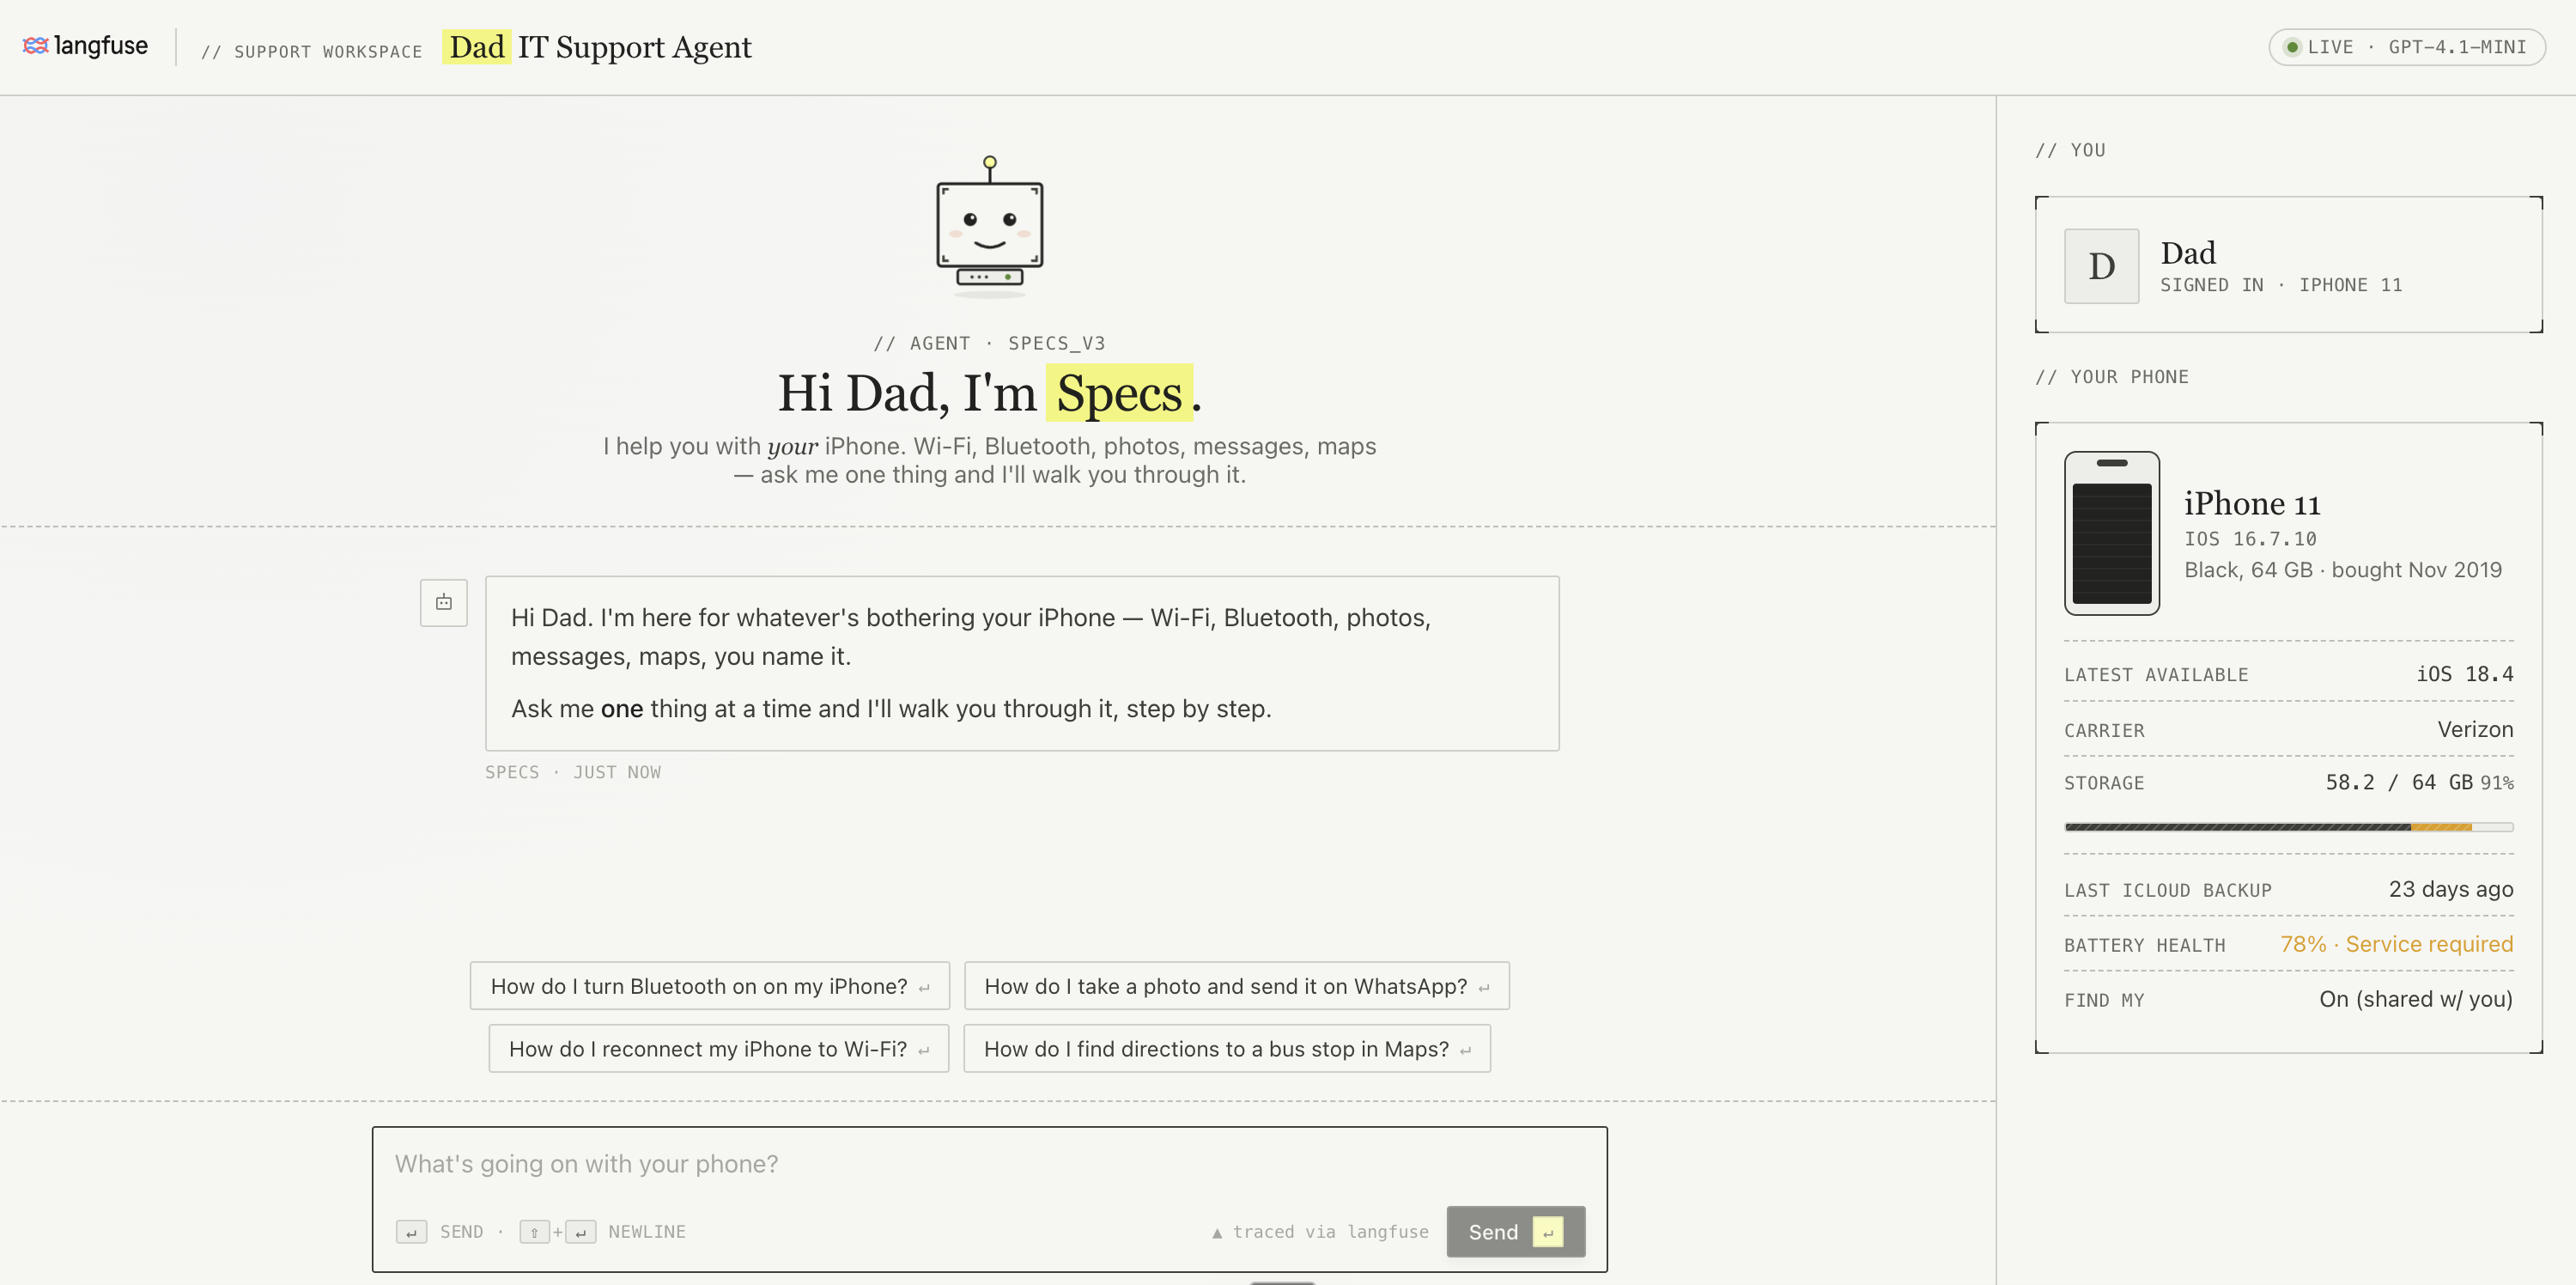
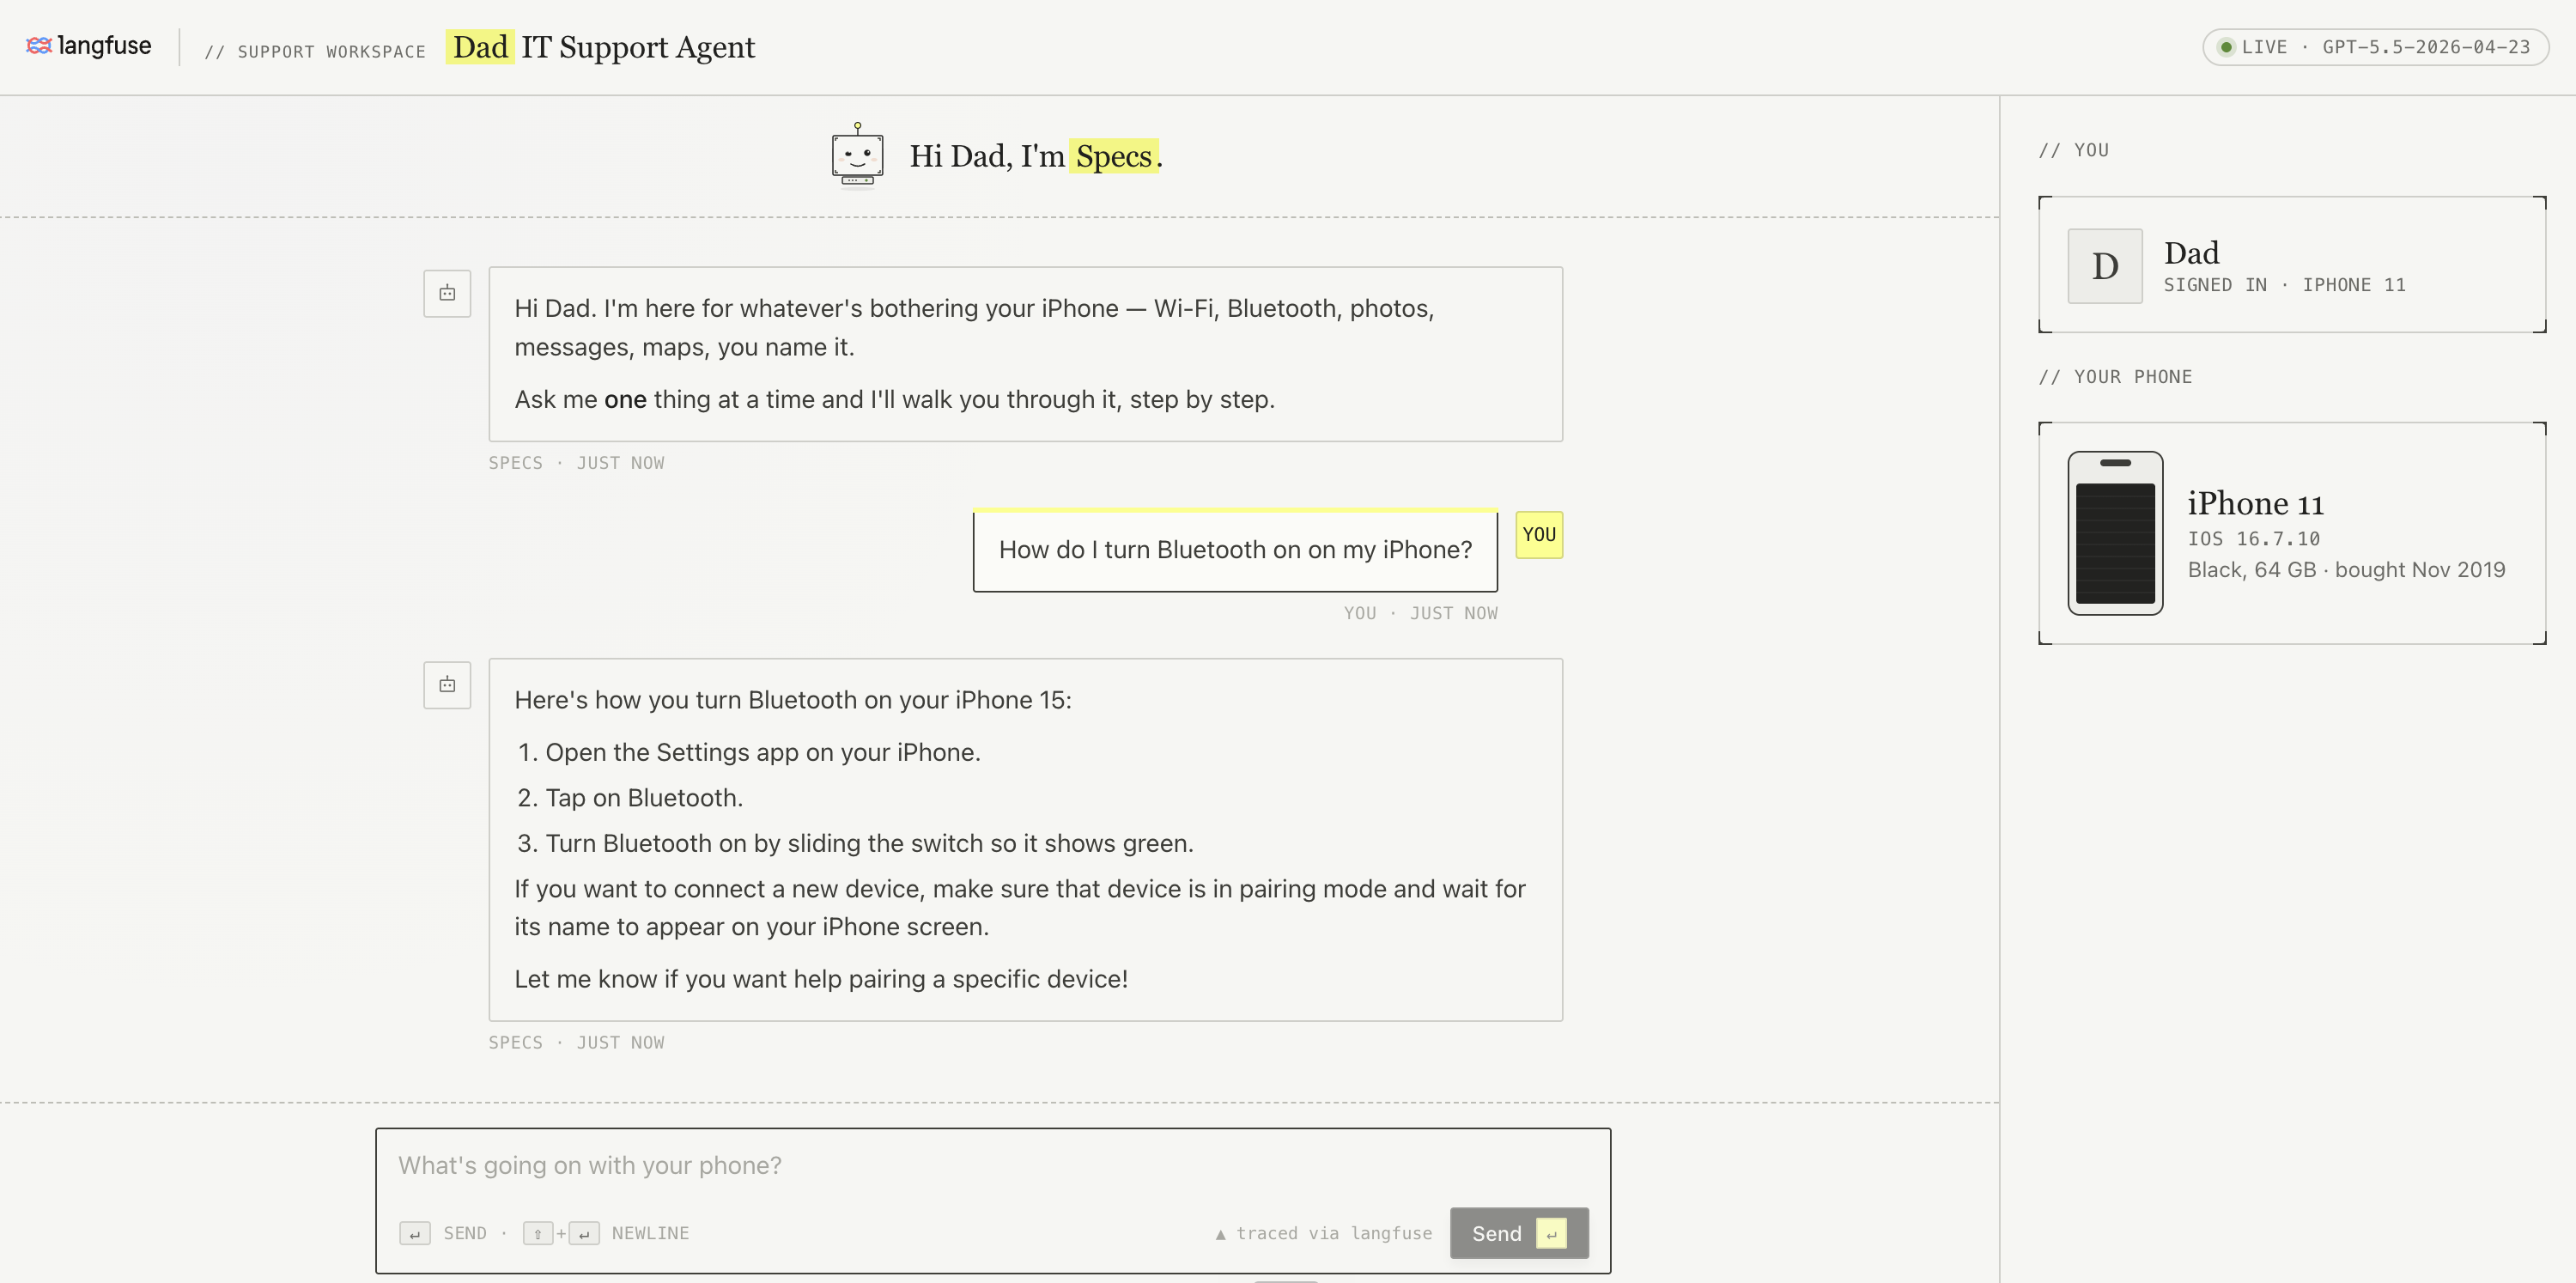
Shorten "Langfuse Claude Code skill" to just "Langfuse skill" everywhere
Aligns the wording with how the skill is referenced internally and
keeps the workshop docs from re-explaining the surface that the skill
runs on. The /langfuse invocation stays the same.

Also trims the chat-header (mascot 84px → 40px, drops the eyebrow +
long subtitle, single-row compact layout) and removes the dynamic
phone-panel rows (storage bar, latest available, carrier, last
backup, battery, find my) so the side panel only shows the static
identity card.

diff --git a/src/client/App.tsx b/src/client/App.tsx
@@ -18,13 +18,7 @@ const PHONE = {
   model: "iPhone 11",
   finish: "Black, 64 GB",
   os: "iOS 16.7.10",
-  latestAvail: "iOS 18.4",
-  carrier: "Verizon",
-  purchased: "Nov 2019",
-  lastBackup: "23 days ago",
-  battery: "78% · Service required",
-  storage: "58.2 / 64 GB",
-  storagePct: 91
+  purchased: "Nov 2019"
 };
 
 function createSessionId() {
@@ -135,45 +129,6 @@ function PhonePanel() {
             <div className="age">
               {PHONE.finish} · bought {PHONE.purchased}
             </div>
-          </div>
-        </div>
-
-        <div className="spec-list">
-          <div className="spec">
-            <span className="k">Latest available</span>
-            <span className="v mono">{PHONE.latestAvail}</span>
-          </div>
-          <div className="spec">
-            <span className="k">Carrier</span>
-            <span className="v">{PHONE.carrier}</span>
-          </div>
-          <div className="spec">
-            <span className="k">Storage</span>
-            <span className="v mono">
-              {PHONE.storage}
-              <span className="pct">{PHONE.storagePct}%</span>
-            </span>
-          </div>
-        </div>
-
-        <div className="storage-bar">
-          <div className="fill"></div>
-        </div>
-
-        <div className="spec-list" style={{ marginTop: 12 }}>
-          <div className="spec">
-            <span className="k">Last iCloud backup</span>
-            <span className="v">{PHONE.lastBackup}</span>
-          </div>
-          <div className="spec">
-            <span className="k">Battery health</span>
-            <span className="v" style={{ color: "var(--callout-warning)" }}>
-              {PHONE.battery}
-            </span>
-          </div>
-          <div className="spec">
-            <span className="k">Find My</span>
-            <span className="v">On (shared w/ you)</span>
           </div>
         </div>
       </div>
@@ -296,18 +251,14 @@ export function App() {
       <TopBar />
       <div className="main">
         <section className="chat">
-          <header className="chat-header">
+          <header className="chat-header compact">
             <div className="mascot-wrap">
-              <Mascot size={84} thinking={isSending} />
+              <Mascot size={40} thinking={isSending} />
             </div>
             <div className="who">
-              <div className="eyebrow">// agent · specs_v3</div>
               <h2>
                 Hi Dad, I'm <span className="mark">Specs</span>.
               </h2>
-              <div className="sub">
-                I help you with <em>your</em> iPhone. Wi-Fi, Bluetooth, photos, messages, maps — ask me one thing and I'll walk you through it.
-              </div>
             </div>
           </header>
 

diff --git a/src/client/styles.css b/src/client/styles.css
@@ -130,9 +130,27 @@ button {
   border-bottom: 1px dashed var(--line-divider-dash);
   text-align: center;
 }
+.chat-header.compact {
+  flex-direction: row;
+  justify-content: center;
+  gap: 10px;
+  padding: 12px 20px;
+  text-align: left;
+}
 .chat-header .mascot-wrap {
   width: 84px; height: 96px;
   position: relative;
+}
+.chat-header.compact .mascot-wrap {
+  width: 40px;
+  height: 46px;
+}
+.chat-header.compact .who h2 {
+  font-size: 18px;
+  line-height: 1;
+}
+.chat-header.compact .who h2 .mark {
+  padding: 0 4px;
 }
 .chat-header .who {
   display: flex;

diff --git a/docs/learner/02-tracing.md b/docs/learner/02-tracing.md
@@ -20,7 +20,7 @@ When Dad asks "How do I turn Bluetooth on?", the agent doesn't just hit OpenAI o
 
 The goal of this chapter is to make every one of those steps visible in Langfuse — one chat turn becomes one nested trace with the agent run, the OpenAI generations, and the two tool calls all logged in order.
 
-![How Specs handles a ticket — one agent, two tools, one model, each hop an observation in the trace.](../images/specs_illustration.png)
+![How Specs handles a ticket — one agent, two tools, one model, each hop an observation in the trace.](../tracing/process_illustration.png)
 
 We will build up the trace in three steps that mirror the agent's structure:
 
@@ -196,15 +196,16 @@ export async function executeTool(name: string, input: Record<string, unknown>):
 
 Same pattern, different observation types, same concept: `observe(fn, { asType })` wraps a function and emits a span with the name and type you give it. `observeOpenAI(client)` is a specialized version of that wrap for the OpenAI SDK.
 
-A more straightforward way to add rich tracing in line with Langfuse best practices is the **Langfuse Claude Code skill** (`/langfuse`). It applies the recommended patterns to your codebase without you hand-rolling each wrap. This walkthrough exists so you understand what the skill is doing under the hood.
+A more straightforward way to add rich tracing in line with Langfuse best practices is the **Langfuse skill** (`/langfuse`). It applies the recommended patterns to your codebase without you hand-rolling each wrap. This walkthrough exists so you understand what the skill is doing under the hood.
 
 `observeOpenAI` itself wraps the official OpenAI SDK — under the hood it's the same as the Langfuse [auto-instrumentation for OpenAI JS](https://langfuse.com/integrations/model-providers/openai-js). If you're using a different SDK (Anthropic, Vercel AI SDK, your own HTTP client), the Langfuse [integrations catalogue](https://langfuse.com/integrations) has the equivalent wrapper or auto-instrumentation guide.
 
-## Appendix — User and session IDs
+## Appendi/Bonus section — User and session IDs
 
 The walkthrough above gets you tracing with a clean parent → generation → tool shape. The next thing most teams want is to **slice traces by user and by session** — so you can pull up "every turn this user has had with the agent" or "the full multi-turn session from yesterday morning."
+For simplicity reasons we skip this step in this workshop, but see information on [Sessions](https://langfuse.com/docs/observability/sessions) and [Users](https://langfuse.com/docs/observability/users) in the Langfuse docs.
 
-You don't have to do this yet; it's covered in [`04-monitoring`](./04-monitoring.md). The mechanism is small enough to mention here:
+In short:
 
 ```ts
 import { propagateAttributes } from "@langfuse/tracing";
@@ -223,7 +224,6 @@ return propagateAttributes(
 
 Anything inside the `propagateAttributes(...)` block — including all child spans emitted by `observeOpenAI` — automatically gets the `userId`, `sessionId`, and tags attached. The Langfuse **Users** view, **Sessions** view, and tag filters all light up as soon as the attributes are present.
 
-For the full reference, see [Sessions](https://langfuse.com/docs/observability/sessions) and [Users](https://langfuse.com/docs/observability/users) in the Langfuse docs.
 
 ## End state
 

diff --git a/docs/learner/01-base-app.md b/docs/learner/01-base-app.md
@@ -19,11 +19,10 @@
 - `src/server/support-data.ts` — Dad's fixed context + guide library
 - `src/server/local-prompt.ts` — system-prompt template
 
-## How to verify you are oriented
 
-- You can name the two tools and roughly what each returns.
-- You can point at the loop in `support-agent.ts` that calls `executeTool(...)`.
-- You can run the app and get one full iPhone answer with grounded steps.
+## Bonus
+
+You can customize your experience by changing the phone specs in support-data.ts file. Adding your dad's phone information means, you will get replies for the right type of phone.
 
 ## End state
 

diff --git a/docs/learner/00-setup.md b/docs/learner/00-setup.md
@@ -44,9 +44,8 @@ You should see the **Dad IT Support Agent** chat:
 - suggestion chips below the greeting
 - the iPhone panel on the right ("Dad" + iPhone 11 details)
 
-![Specs greeting on the running app](../images/specs_illustration.png)
+![How Specs handles a ticket — one agent, two tools, one model, each hop an observation in the trace.](../images/specs_illustration.png)
 
-> 📷 *Screenshot placeholder: the running app at `http://127.0.0.1:3333`.*
 
 ## How to verify you are done
 

diff --git a/README.md b/README.md
@@ -97,6 +97,6 @@ Repo layout:
 
 - Walk the modules in order starting from [`docs/learner/00-setup.md`](./docs/learner/00-setup.md), **or**
 - Jump to whichever chapter matches what you want to learn, **or**
-- Install the [**Langfuse Claude Code skill**](https://langfuse.com/docs) (`/langfuse`) to apply the patterns from this workshop to your own codebase.
+- Install the [**Langfuse skill**](https://langfuse.com/docs) (`/langfuse`) to apply the patterns from this workshop to your own codebase.
 
 For the bigger-picture material on each chapter, the [Langfuse Academy](https://langfuse.com/academy) has a dedicated lesson per module.

diff --git a/docs/instructor/03-prompt-management.md b/docs/instructor/03-prompt-management.md
@@ -155,4 +155,4 @@ If your env doesn't have Langfuse keys, `promptSource` reads `local` and the app
 
 Tracing without prompt management is a one-way street: you can see what the model did but you can't tell which prompt change caused which behavior. Prompt management closes the loop. Now every change in the Langfuse UI is a new version, every trace points at its version, and the eval and monitoring steps can compare versions head-to-head.
 
-A more straightforward way to wire prompt management in line with Langfuse best practices is the [**Langfuse Claude Code skill**](https://langfuse.com/docs) (`/langfuse`). It knows the recommended caching defaults, fallback patterns, and how to attach prompts to generations across all the SDKs. The hand-rolled walkthrough in this step exists so you understand what the skill is doing under the hood.
+A more straightforward way to wire prompt management in line with Langfuse best practices is the [**Langfuse skill**](https://langfuse.com/docs) (`/langfuse`). It knows the recommended caching defaults, fallback patterns, and how to attach prompts to generations across all the SDKs. The hand-rolled walkthrough in this step exists so you understand what the skill is doing under the hood.

diff --git a/docs/instructor/05-dataset.md b/docs/instructor/05-dataset.md
@@ -101,6 +101,6 @@ If you add items later, prefer ones that match a real signal you saw in monitori
 
 ## Teaching point
 
-Datasets are how you write down what your system is expected to handle. A good one gives you confidence to ship and to iterate without regressing. You can seed datasets via the Langfuse CLI or [**Claude Code skill**](https://langfuse.com/docs) (`/langfuse`), build them from production traces in the UI, or maintain them in code like we did — the right approach depends on where your best examples come from.
+Datasets are how you write down what your system is expected to handle. A good one gives you confidence to ship and to iterate without regressing. You can seed datasets via the Langfuse CLI or [**skill**](https://langfuse.com/docs) (`/langfuse`), build them from production traces in the UI, or maintain them in code like we did — the right approach depends on where your best examples come from.
 
 Next, in `06-experiments`, this dataset becomes the input to runs against the real agent.

diff --git a/docs/instructor/06-experiments.md b/docs/instructor/06-experiments.md
@@ -75,4 +75,4 @@ The script reports progress per item and finishes with a summary line. Each item
 
 Experiments are not a separate app. They are the same application logic run repeatedly on a scoped dataset so behavior can be compared over time. The two scoring approaches give two angles on the same run: **keyword match** for "did we cover the right steps?" and **correctness** for "is the answer actually right?" Real evaluation programs typically combine deterministic and judge-based checks like this.
 
-The [**Langfuse Claude Code skill**](https://langfuse.com/docs) (`/langfuse`) knows the recommended evaluator shapes and how to wire them into `runExperiment` — this walkthrough exists so you understand what the skill is doing under the hood. Learn more in the [Langfuse Academy lesson on experiments](https://langfuse.com/academy/experiments).
+The [**Langfuse skill**](https://langfuse.com/docs) (`/langfuse`) knows the recommended evaluator shapes and how to wire them into `runExperiment` — this walkthrough exists so you understand what the skill is doing under the hood. Learn more in the [Langfuse Academy lesson on experiments](https://langfuse.com/academy/experiments).

diff --git a/docs/instructor/07-evaluation.md b/docs/instructor/07-evaluation.md
@@ -95,4 +95,4 @@ Things to look for:
 
 This step makes "evaluation" click for many people. A single score in isolation doesn't tell you much, but the same score *paired with a deliberate change* is suddenly informative. Once you've done this loop once — change → rerun → compare → decide — every future change has a free baseline to measure against.
 
-A more straightforward way to manage prompt versions and rerun experiments in line with Langfuse best practices is the [**Langfuse Claude Code skill**](https://langfuse.com/docs) (`/langfuse`). It knows how to bump prompt versions, link runs to versions, and produce a comparison chart. The walkthrough exists so you understand what the skill is doing under the hood.
+A more straightforward way to manage prompt versions and rerun experiments in line with Langfuse best practices is the [**Langfuse skill**](https://langfuse.com/docs) (`/langfuse`). It knows how to bump prompt versions, link runs to versions, and produce a comparison chart. The walkthrough exists so you understand what the skill is doing under the hood.

diff --git a/docs/instructor/08-wrap-up.md b/docs/instructor/08-wrap-up.md
@@ -43,7 +43,7 @@ When participants go back to their own codebase, the recommended path is:
    langfuse auth
    ```
 
-2. **Install the Langfuse Claude Code skill** (`/langfuse`) — it packages the recommended tracing, prompt management, monitoring, and evaluator patterns from this workshop.
+2. **Install the Langfuse skill** (`/langfuse`) — it packages the recommended tracing, prompt management, monitoring, and evaluator patterns from this workshop.
 
 3. **Pick the smallest LLM-using surface** they have and wire `observe(...)` + `observeOpenAI(...)` first.
 

diff --git a/docs/learner/03-prompt-management.md b/docs/learner/03-prompt-management.md
@@ -162,7 +162,7 @@ Ask one question, then in Langfuse:
 
 Prompt management is what closes the trace ↔ prompt loop. Every prompt version is preserved, every generation knows which version produced it, and you can iterate prompts independent of code deploys.
 
-A more straightforward way to wire prompt management in line with Langfuse best practices is the [**Langfuse Claude Code skill**](https://langfuse.com/docs) (`/langfuse`). The skill applies the recommended caching, fallback, and linking patterns to your codebase without you hand-rolling each piece. This walkthrough exists so you can see what the skill is doing under the hood.
+A more straightforward way to wire prompt management in line with Langfuse best practices is the [**Langfuse skill**](https://langfuse.com/docs) (`/langfuse`). The skill applies the recommended caching, fallback, and linking patterns to your codebase without you hand-rolling each piece. This walkthrough exists so you can see what the skill is doing under the hood.
 
 ## End state
 